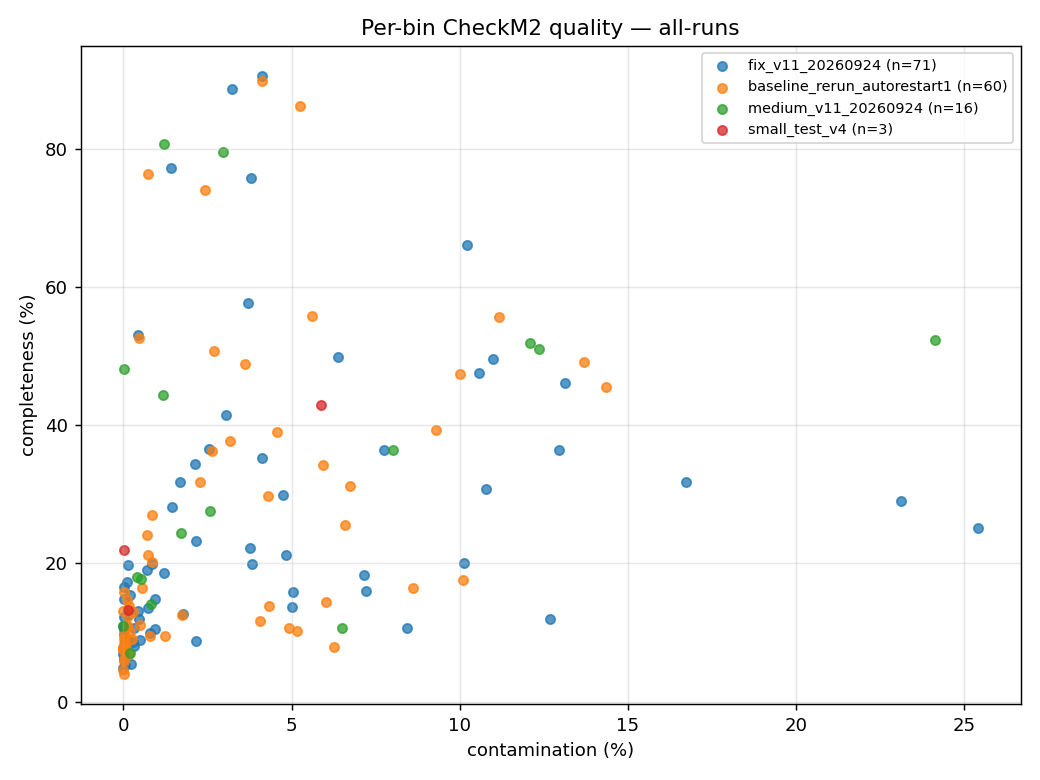
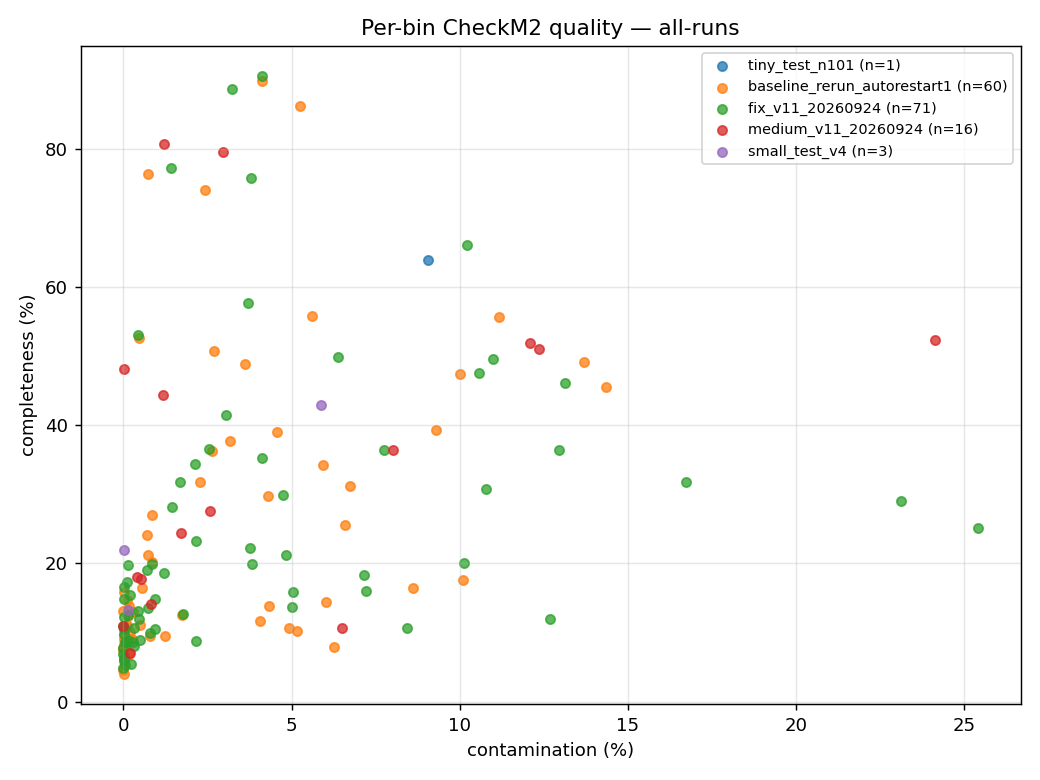
issue #18: tiny floor docs (101-contig rows in docs/11/README), human prep script + tiny CSV

diff --git a/docs/11-run-results.md b/docs/11-run-results.md
@@ -8,13 +8,15 @@ One row per benchmark run, updated by the agent after each run (timings from `ru
 | `small_test_v4` | 2026-09-24 | [c8f22e4](https://github.com/paulzierep/COMEBin/commit/c8f22e4935a66a0fd58b794489a9021671b15437) | `comebin_small` (300 contigs) | 8 | 122 s | 0.75 GB | 3 | 26.07 / 2.02 | 29.08 / 0.71 | ✅ functional gate passed |
 | `medium_v11_20260924` | 2026-09-24 | [95f5ea8](https://github.com/paulzierep/COMEBin/commit/95f5ea820f9a4e76f5c2911c0b5ed507ab67b015) | `comebin_medium` (3,000 contigs) | 32 | 2,326 s | 10.69 GB | 16 | 35.93 / 4.67 | 33.83 / 6.03 | ✅ complete; 200/200 epochs, 61.23% Top1; [CSV](../results/medium_v11_20260924.csv) |
 | `fix_v11_20260924` | 2026-09-24 | [95f5ea8](https://github.com/paulzierep/COMEBin/commit/95f5ea820f9a4e76f5c2911c0b5ed507ab67b015) | COMEBin demo (29,434 contigs) | 32 | 24,741 s | 9.4 GB | 71 | 24.38 / 3.78 | 21.62 / 5.18 | ✅ complete; stopped early at epoch 184/200 (`--earlystop`, Top-1 ≥ 99% × 3); [CSV](../results/fix_v11_20260924.csv) |
+| `tiny_test_n100` | 2026-09-25 | [c8f22e4](https://github.com/paulzierep/COMEBin/commit/c8f22e4935a66a0fd58b794489a9021671b15437) | `comebin_tiny` (100 contigs) | 8 | 85 s | – | – | – | – | ❌ exit 1 — HNSW `k = max_edges+1 = 101` > N=100; empirical floor is 101 contigs (issue #18) |
+| `tiny_test_n101` | 2026-09-25 | [c8f22e4](https://github.com/paulzierep/COMEBin/commit/c8f22e4935a66a0fd58b794489a9021671b15437) | `comebin_tiny_101` (101 contigs) | 8 | 85 s | – | 1 | 63.89 / 9.05 | 46.58 / 6.35 | ✅ complete, smallest passing dataset (30 epochs); [CSV](../results/tiny_test_n101.csv) |
 | `baseline_unmodified` | 2026-09-23 | [987db95](https://github.com/paulzierep/COMEBin/commit/987db95d8d399f30b7c82a5f5f40ed6bfdc906c7) (upstream) | COMEBin demo (29,434 contigs) | 32 | – | – | – | – | – | ⏹ failed at epoch 175/200 — see [Run history](#run-history--what-happened-and-whats-next) |
 
 Column contract: **Wall time** = total seconds (plus per-stage breakdown in `docs/02-comebin-baseline.md`), **Bins** = bins exported (≥200 kb filter noted), **comp/cont** = mean completeness / mean contamination, **HQ/MQ counts** live in `results/<run>.csv`. **Source commit** is always a clickable link to that exact commit on GitHub. Per-bin CheckM2 values for the completed medium gate are in [`medium_v11_20260924_checkm2_stats.csv`](../medium_v11_20260924_checkm2_stats.csv).
 
 ## Run history — what happened and what's next
 
-Eleven COMEBin-executing attempts have been recorded: seven terminal failures and four completed runs. The baseline rerun, small functional gate, medium derivative, and large fix run now have verified bin artifacts and CheckM2/CheckM outputs. Run links point to tracked evidence mirrors; the status banner at the top is authoritative for any active run.
+Thirteen COMEBin-executing attempts have been recorded: eight terminal failures and five completed runs. The baseline rerun, small functional gate, medium derivative, large fix run, and the 101-contig tiny floor run now have verified bin artifacts and CheckM2/CheckM outputs. Run links point to tracked evidence mirrors; the status banner at the top is authoritative for any active run.
 
 ### COMEBin-executing attempts
 
@@ -31,6 +33,8 @@ Eleven COMEBin-executing attempts have been recorded: seven terminal failures an
 | [`small_test_v4`](runs/small_test_v4/comebin_run.log) — 2026-09-24 08:48:33 → 08:50:35 | [c8f22e4](https://github.com/paulzierep/COMEBin/commit/c8f22e4935a66a0fd58b794489a9021671b15437) | **✅ Functional gate passed.** 30/30 epochs, 3 non-empty bins in 122 s. CheckM2: 26.07% mean completeness / 2.02% contamination. CheckM v1 (Python 3.10 + `pplacer` library path): 29.08% / 0.71%. | Small gate is complete; medium 3,000-contig derivative is next. See [`results/small_test_v4.csv`](results/small_test_v4.csv). |
 | [`medium_v11_20260924`](../runs/medium_v11_20260924/comebin_run.log) — 2026-09-24 09:25:50 → 10:04:36 | [95f5ea8](https://github.com/paulzierep/COMEBin/commit/95f5ea820f9a4e76f5c2911c0b5ed507ab67b015) | **✅ Complete.** 200/200 epochs, 61.23% Top1, 16 non-empty bins in 2,326 s. CheckM2: 35.93% mean completeness / 4.67% contamination (MQ=2). CheckM v1: 33.83% / 6.03% (MQ=3). | Evaluation completed with `scripts/run_eval.sh`; see the [aggregate CSV](../results/medium_v11_20260924.csv) and the [per-bin tables](../runs/medium_v11_20260924/per_bin_results.csv) / [CheckM2 per-bin](../runs/medium_v11_20260924/checkm2_per_bin.csv). |
 | [`fix_v11_20260924`](../runs/fix_v11_20260924/comebin_run.log) — 2026-09-24 10:37:15 → 17:29:36 | [95f5ea8](https://github.com/paulzierep/COMEBin/commit/95f5ea820f9a4e76f5c2911c0b5ed507ab67b015) | **✅ Complete** (exit 0, wall 24,741 s). Stopped early at **epoch 184/200** because upstream v1.1.0 `run_comebin.sh` passes `--earlystop` (Top-1 > 99% for 3 epochs: 99.10 → 99.22 → 99.04%), then clustering completed normally (120/120 Leiden) → **71 non-empty bins**. CheckM2: 24.38% / 3.78% (HQ 1, MQ 6). CheckM v1: 21.62% / 5.18% (HQ 0, MQ 8). Versus the baseline on the same data: +1.7% wall time, +11 bins, −0.63 pp completeness, +0.80 pp contamination. | Evaluation done with `scripts/run_eval.sh` (CheckM2 71 s, CheckM v1 398 s); see the [aggregate CSV](../results/fix_v11_20260924.csv) and [per-bin table](../runs/fix_v11_20260924/per_bin_results.csv). Next: issue #18 datasets (tiny + CAMI human ~1/6). |
+| [`tiny_test_n100`](../runs/tiny_test_n100/comebin_run.log) — 2026-09-25 01:44 → 01:46 | [c8f22e4](https://github.com/paulzierep/COMEBin/commit/c8f22e4935a66a0fd58b794489a9021671b15437) | **Failed, exit 1 (85 s).** Smallest-possible-dataset probe for issue #18: `cluster.py` builds an HNSW index and queries `k = max_edges + 1 = 101` neighbours with N = 100 contigs → `RuntimeError: Cannot return the results in a contiguous 2D array` → empty `get_bin_quality` → `ValueError: max() arg is an empty sequence`. | The empirical floor is **101 contigs**; see `tiny_test_n101`. A defensive clamp in `cluster.py` is proposed as a future fix batch (not applied — the benchmark runs upstream). |
+| [`tiny_test_n101`](../runs/tiny_test_n101/comebin_run.log) — 2026-09-25 01:46:33 → 01:47:58 (85 s) | [c8f22e4](https://github.com/paulzierep/COMEBin/commit/c8f22e4935a66a0fd58b794489a9021671b15437) | **✅ Complete.** 101 contigs (issue #18 tiny floor), 30/30 epochs, exit 0, **1 non-empty bin**. CheckM2: 63.89% / 9.05% (MQ 1). CheckM v1: 46.58% / 6.35%. | Smallest passing dataset verified; see [`results/tiny_test_n101.csv`](../results/tiny_test_n101.csv). CAMI-II human ~1/6 set is next (issue #18). |
 
 ### Guard-only launches
 

diff --git a/docs/01-datasets.md b/docs/01-datasets.md
@@ -72,6 +72,32 @@ The v1.1.0 benchmark `medium_v11_20260924` completed 200/200 epochs and produced
 medium release is not deposited separately until the owner confirms its license
 and metadata.
 
+### Tiny derived test set — issue #18 "smallest still possible" (2026-09-25)
+
+Two candidate "smallest" datasets were built with the same real-data method
+(`scripts/make_small_dataset.sh <out> <N>`, top-N longest demo contigs + the
+overlapping reads), because the floor is set by a **hard limit in COMEBin's
+clustering**, not by disk:
+
+| Dataset | Contigs | Size | Result |
+|---|---:|---:|---|
+| `/vol/data/datasets/comebin_tiny` | 100 | 43 MB | ❌ **fails**: `cluster.py` builds an HNSW index and queries `max_edges + 1 = 101` neighbours (`max_edges_list = [100]`, `ef = max_edges*10`) → `RuntimeError: Cannot return the results in a contiguous 2D array. Probably ef or M is too small` for N = 100 ≤ 101; no Leiden result → `ValueError: max() arg is an empty sequence` in `get_final_result.get_bin_quality` (run `tiny_test_n100`, exit 1, 85 s) |
+| `/vol/data/datasets/comebin_tiny_101` | **101** | **47 MB** | ✅ **passes**: run `tiny_test_n101`, exit 0, wall 85 s, **1 non-empty bin**; CheckM2 **63.89 % / 9.05 %** (MQ 1), CheckM v1 **46.58 % / 6.35 %** → [`results/tiny_test_n101.csv`](../results/tiny_test_n101.csv) |
+
+**The smallest functional COMEBin dataset on this VM is therefore 101 contigs
+(≈ 1.82 Mbp, 47 MB on disk)** — 100 is the first failing size and 101 the first
+passing one (both verified end-to-end). It trains with the batch size capped to
+the contig count (`run_comebin.sh` clamps `-b` to `sequence_count`), 30 epochs
+(issue #10 `-E`), and yields ≥ 1 bin as required.
+
+Optional follow-up fix (not applied — belongs to a fix batch): clamp the
+neighbour query to `k = min(max_edges + 1, N)` (and/or shrink `max_edges` for
+small inputs) in `cluster.py` so datasets smaller than 101 contigs also work;
+until then 101 is the documented floor.
+
+Run with a different dataset: `DATA=/vol/data/datasets/comebin_tiny_101 bash
+scripts/run_small_test.sh <fresh_rundir> 8`.
+
 ## 2. CAMI II challenge data
 
 | | |
@@ -125,6 +151,20 @@ contig sets are far too large for COMEBin training (gsa 1.48 M contigs, pooled M
 - run: `scripts/run_comebin_fix.sh` with `CONTIGS=…/marine_sample0_input/contigs.fa`,
   `BAMDIR=…/bamfiles`, `MODE=cami2`, `SRC_COMEBIN=/vol/data/repos/COMEBin-v11`
   (v1.1.0, `-d cpu`, `-s 42`)
+
+### CAMI II human host-associated — issue #18 "Benchmark size" (sample 0 prepped 2026-09-25)
+
+| | |
+|---|---|
+| Source | **CAMI II Toy Human Microbiome Project** (CAMISIM simulation of HMP body sites), block 2 = gastrointestinal + oral — `https://frl.publisso.de/data/frl:6425518/` |
+| Archive | `gastrooral/sample_0.tar.gz` — **9,738,621,091 B**, md5 `60e04c041c38ea168af03fc55dff15d6` ✅ verified (`md5sum -c`) 2026-09-25 01:43 UTC; server md5 from `md5sums.tsv` in the same directory |
+| Downloaded to | `/vol/data/datasets/cami_II_human/gastrooral_sample_0.tar.gz` (~97 MB/s, 100 s) |
+| Members | `2017.12.04_18.45.54_sample_0/{bam,contigs,reads}` — `bam/` = **139 per-OTU BAMs** (same "per-genome BAMs do not merge" problem as marine), `contigs/` = `anonymous_gsa.fasta.gz` (**68,417 contigs**) + `gsa_mapping.tsv.gz` + `gsa_mapping_new.tsv.gz`, `reads/` = `anonymous_reads.fq` (**10.6 GB, uncompressed**, interleaved PE `@S0R0/1`+`@S0R0/2`) + `reads_mapping.tsv.gz` (293 MB, read → **genome**) + `subsample_0.{sam,bam,fq}` |
+| Extracted (contigs + reads only, `bam/` skipped) | `/vol/data/datasets/cami_II_human/extract/2017.12.04_18.45.54_sample_0/` |
+| Input decision (issue #18: "1/6 the size of the big one") | 29,434 demo contigs / 6 ≈ 4,900 → **top 4,900 GSA contigs by length** (166.0 Mbp; the 4,900th is 4,733 bp; ≥5,000 bp would give 4,462) + **all** reads mapped `bwa mem -p -t 32` → `human_sample0_input/{contigs.fa,bamfiles/human.bam}` |
+| Prep script | [`scripts/prep_cami2_human.sh`](../scripts/prep_cami2_human.sh) (refuses to overwrite an existing build; writes `logs/input_meta.txt` with md5s) |
+| Ground truth | ⚠ `binning_gs.tsv` is **not** inside `sample_0.tar.gz` (only the gsa name maps) → bin quality is scored with CheckM2 + CheckM v1 like every other run; the gold-standard binning lives in `setup.tar.gz` (1.8 GB) / the CAMI goldstandard bundle → **TODO** if a recall/ARI evaluation is wanted |
+| Expected wall time | ≈ 1/6 of the 6.9 h demo run → **≈ 1 h** for 200 epochs (verified by the run once launched) |
 
 ## 3. CAMI III challenge data (planned)
 

diff --git a/docs/08-dataset-space-plan.md b/docs/08-dataset-space-plan.md
@@ -23,7 +23,8 @@ Current usage (2026-09-23): 76 GB used / **391 GB free**.
 | 2 | Small dataset (issue #2) | 94 MB | kept permanently | ready |
 | 3 | Medium derived dataset | – | target 3,000 contigs, hard cap **5 GB** | build only after small test passes |
 | 4 | CAMI II marine — sample 0 short-read | 10 GB extracted (tars 4.6+0.36 GB) | keep **1–2 samples** (~11 GB/sample extracted) | sample 0 extracted |
-| 5 | Human host-associated (CAMI II) | – | **1–2 samples, ≤ 30 GB** | to download |
+| 5 | Human host-associated (CAMI II) | sample_0 tarball 9.7 GB + extracted contigs/reads 11 GB + input build ~0.5 GB | **1–2 samples, ≤ 30 GB** | ✅ sample 0 downloaded + md5-verified 2026-09-25, input prep running |
+| 5b | Tiny functional set (issue #18) | `comebin_tiny` 43 MB + `comebin_tiny_101` 47 MB | kept permanently (floor = 101 contigs) | ✅ built, `tiny_test_n101` passed end-to-end |
 | 6 | CAMI III (marine + human gut) | – | **≤ 50 GB** (verify sizes on frl.publisso.de before download) | to download |
 | 7 | Eval refs + envs | checkm_ref 1.4 GB + checkm2db 2.9 GB + envs ~8 GB | unchanged | ready |
 
@@ -57,6 +58,18 @@ Plan: pick **1 GI-tract sample + 1 second body site** (host diversity), reuse th
 same COMEBin input strategy as CAMI II marine (assemblies/BAMs or per-sample
 mapping), evaluate with CheckM2/CheckM v1 against the provided ground-truth
 binning.
+
+**Status 2026-09-25 (issue #18, "1/6 the size of the big one"):** the GI-tract
+block archive `gastrooral/sample_0.tar.gz` (9,738,621,091 B, md5
+`60e04c041c38ea168af03fc55dff15d6`) is downloaded and verified; `contigs/` +
+`reads/` extracted (`bam/` skipped — the 139 per-OTU BAMs cannot be merged).
+The input build subsets the gold-standard assembly from 68,417 to the **top
+4,900 contigs by length (166.0 Mbp ≈ 29,434 / 6)** and maps all 10.6 GB of
+interleaved reads with `bwa mem -p -t 32` →
+`/vol/data/datasets/cami_II_human/human_sample0_input/`
+(`scripts/prep_cami2_human.sh`). Expected benchmark wall time ≈ 1 h vs 6.9 h
+for the full demo. Ground-truth binning (`binning_gs.tsv`) is not in this
+tarball — see docs/01.
 
 ## CAMI II marine samples (already finishing)
 
